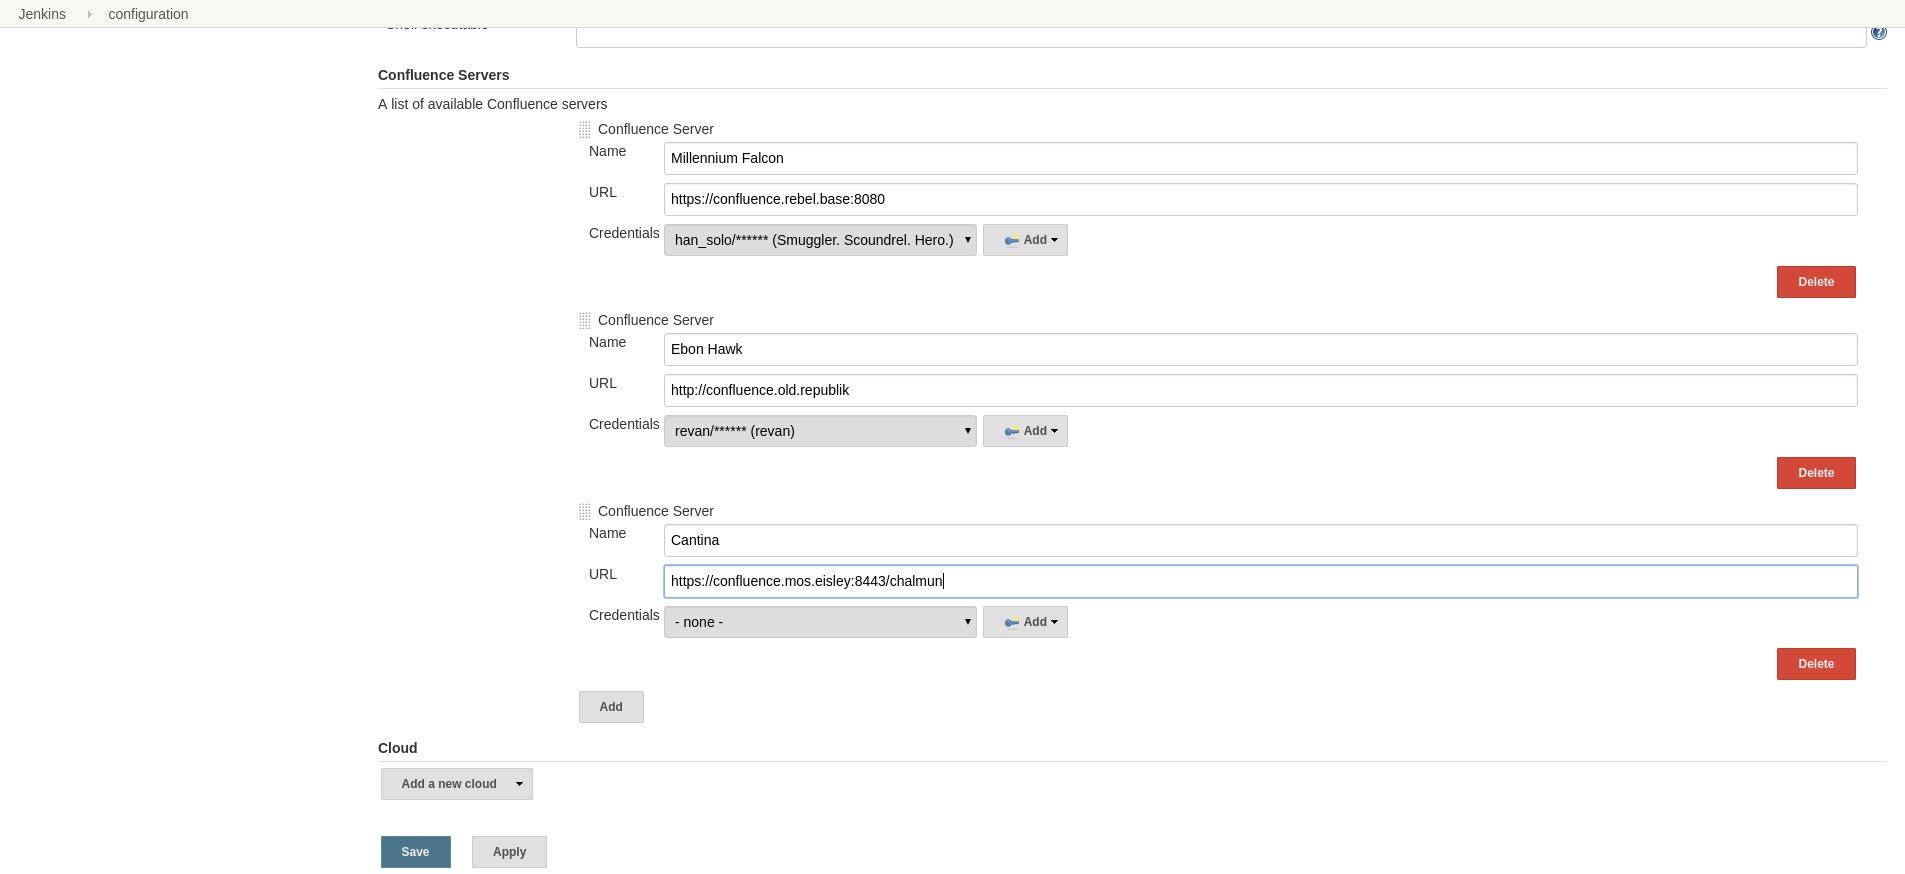
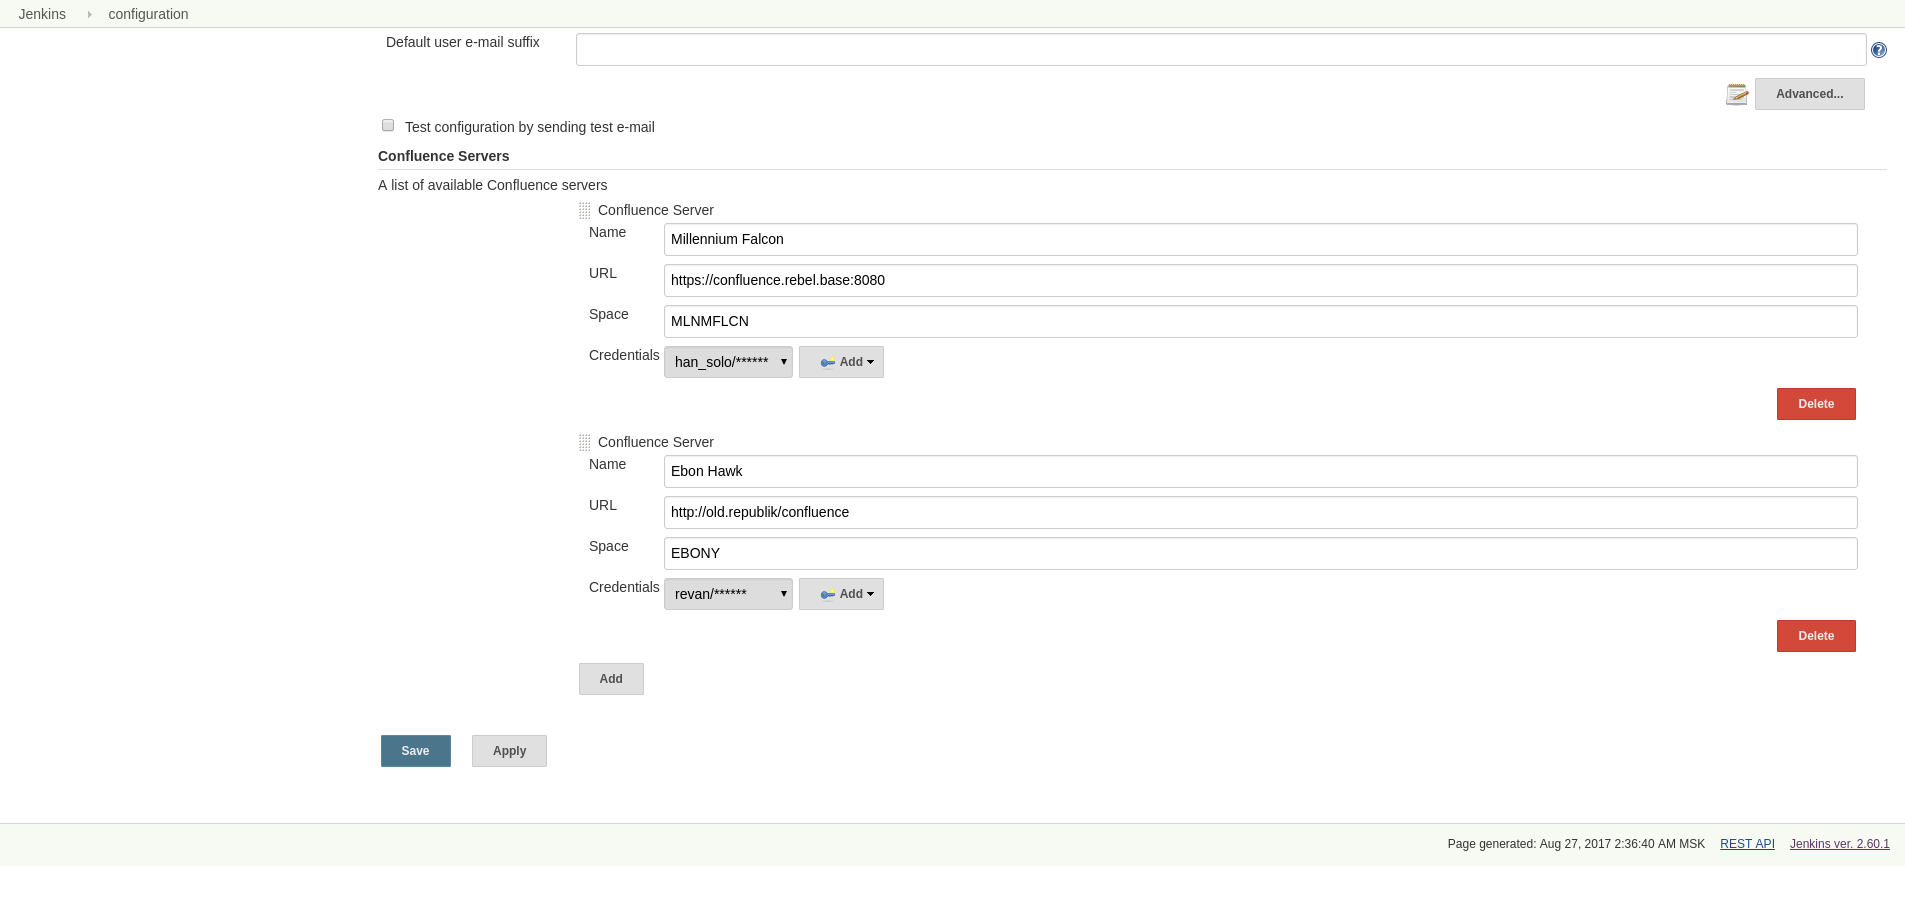
Make "Space" required attribute of confluence server

diff --git a/src/main/kotlin/by/dev/madhead/doktor/config/ConfluenceServer.kt b/src/main/kotlin/by/dev/madhead/doktor/config/ConfluenceServer.kt
@@ -19,6 +19,7 @@ class ConfluenceServer
 constructor(
 	val name: String,
 	val url: String,
+	val space: String,
 	val credentials: String
 ) : AbstractDescribableImpl<ConfluenceServer>() {
 	@Extension
@@ -38,6 +39,14 @@ constructor(
 		fun doCheckUrl(@QueryParameter value: String?): FormValidation {
 			if (value.isNullOrBlank()) {
 				return FormValidation.error(Messages.doktor_config_ConfluenceServer_validation_url_empty())
+			}
+
+			return FormValidation.ok()
+		}
+
+		fun doCheckSpace(@QueryParameter value: String?): FormValidation {
+			if (value.isNullOrBlank()) {
+				return FormValidation.error(Messages.doktor_config_ConfluenceServer_validation_space_empty())
 			}
 
 			return FormValidation.ok()
